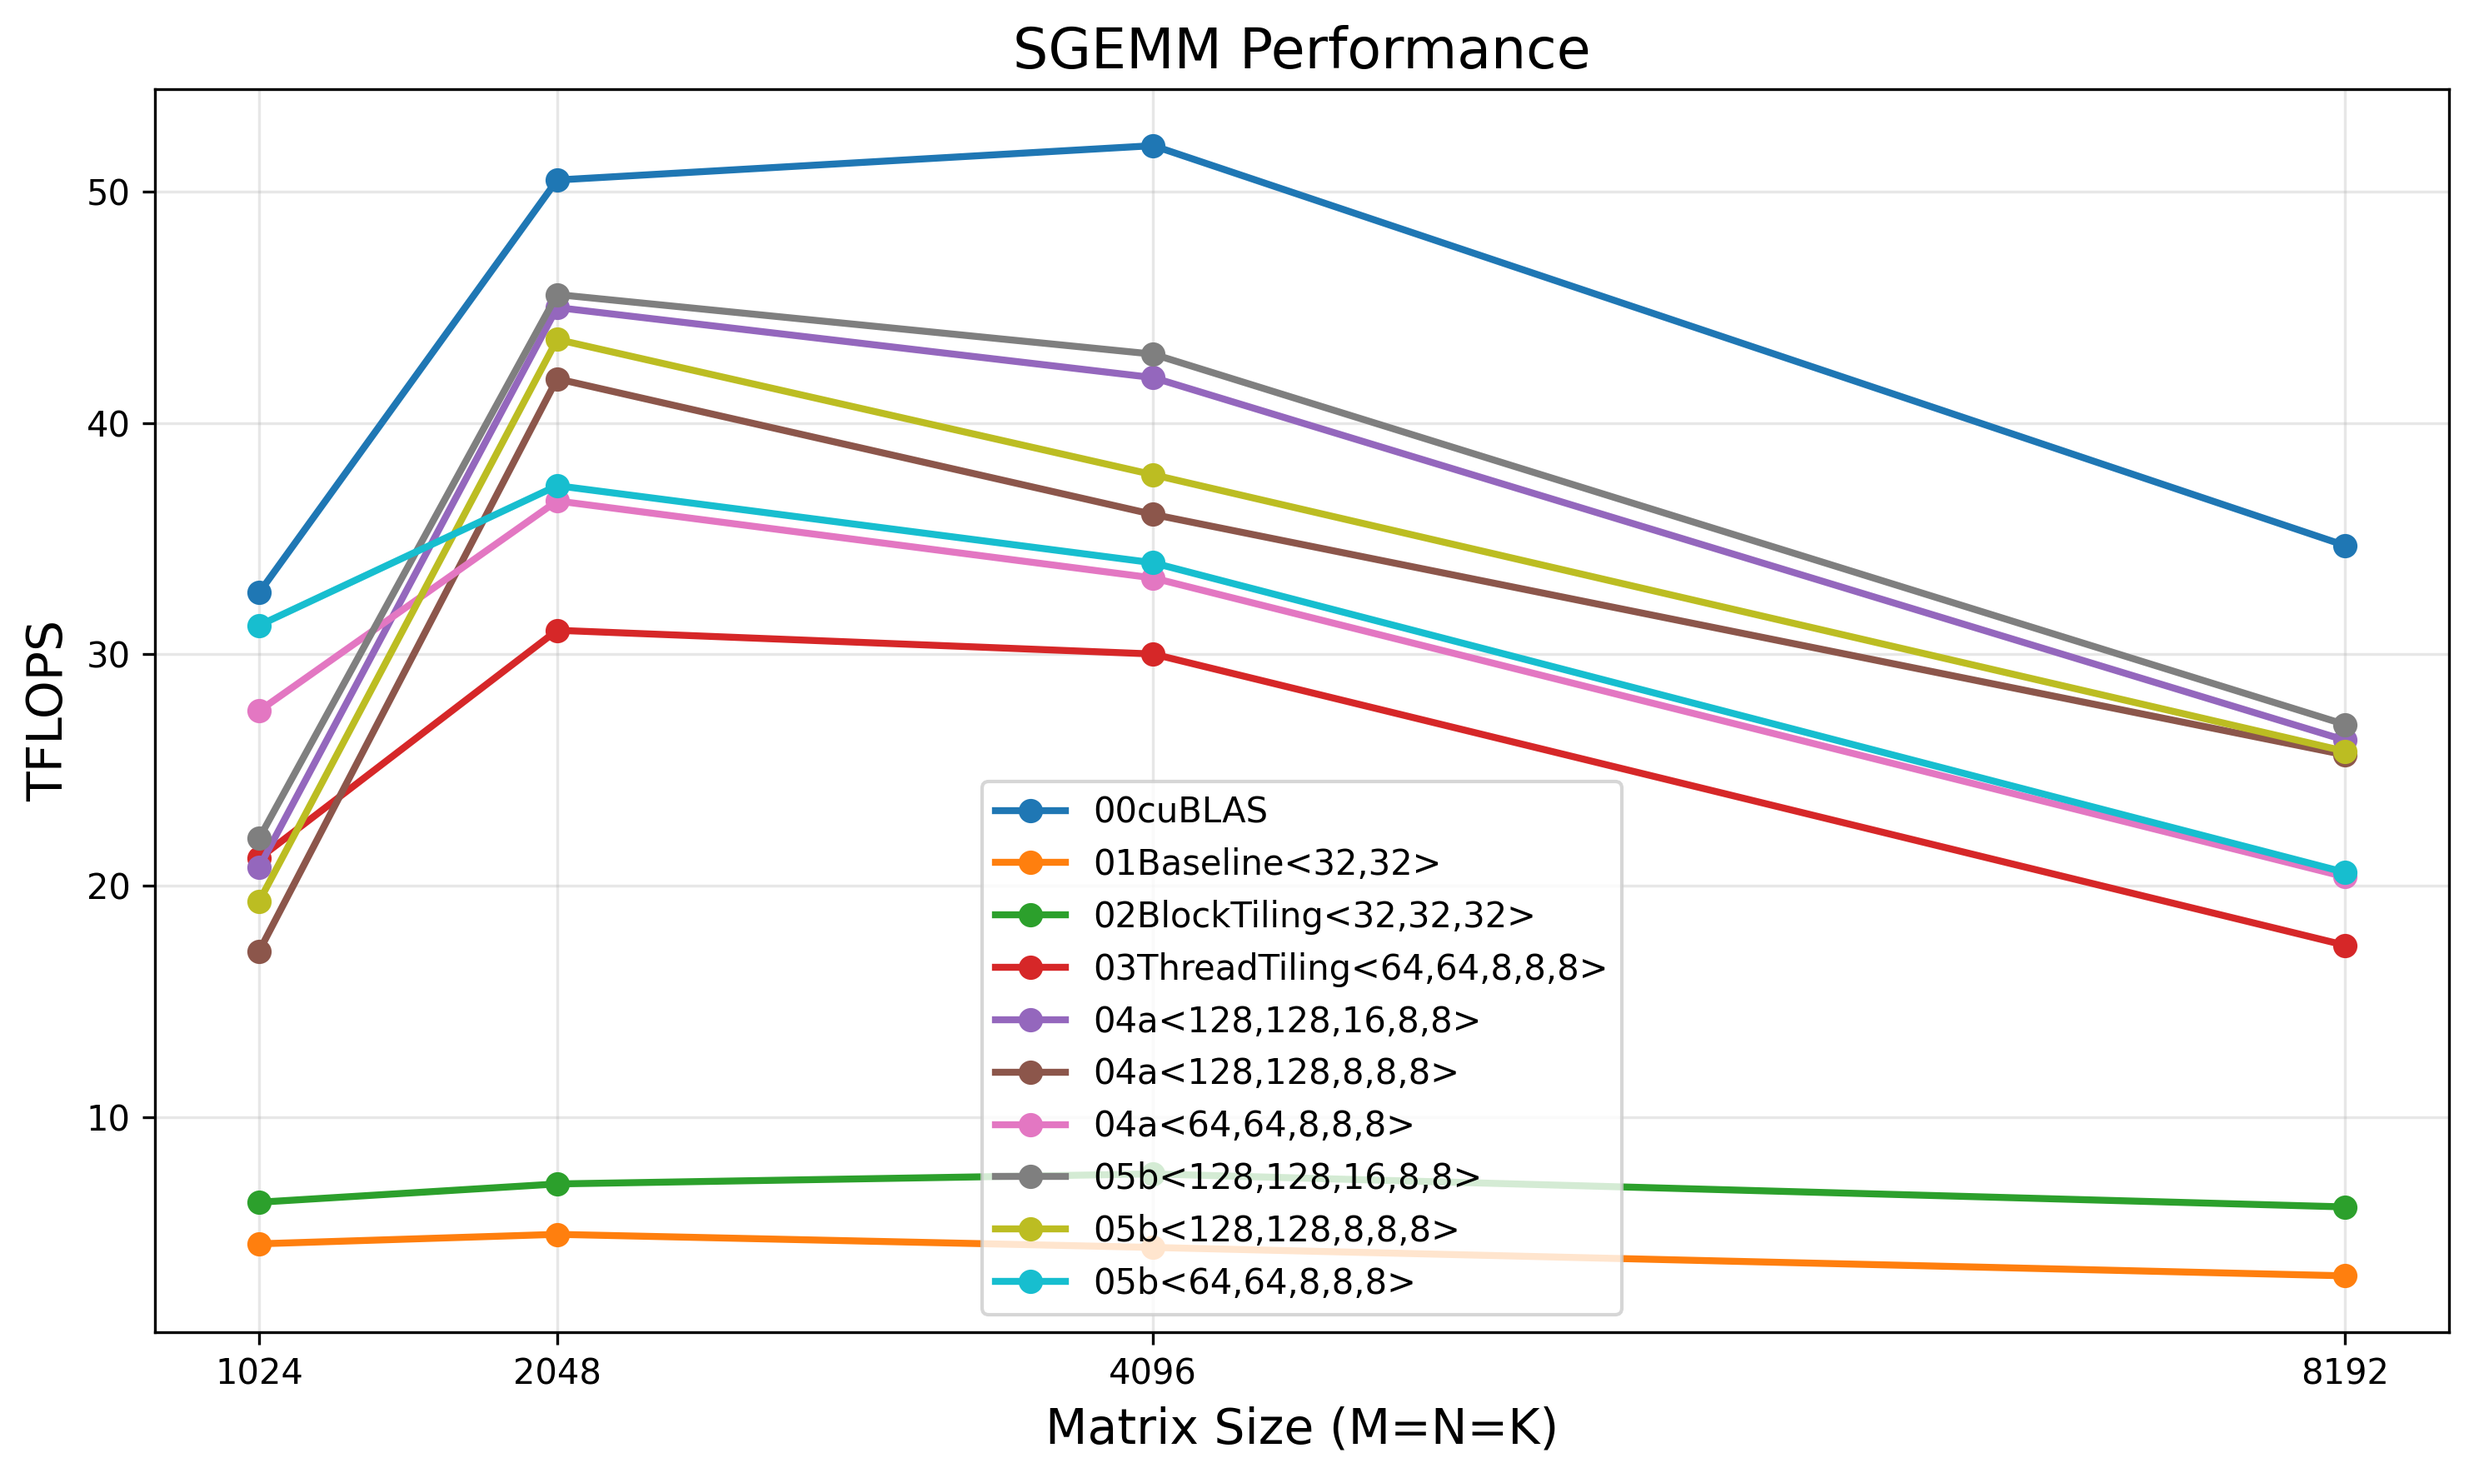
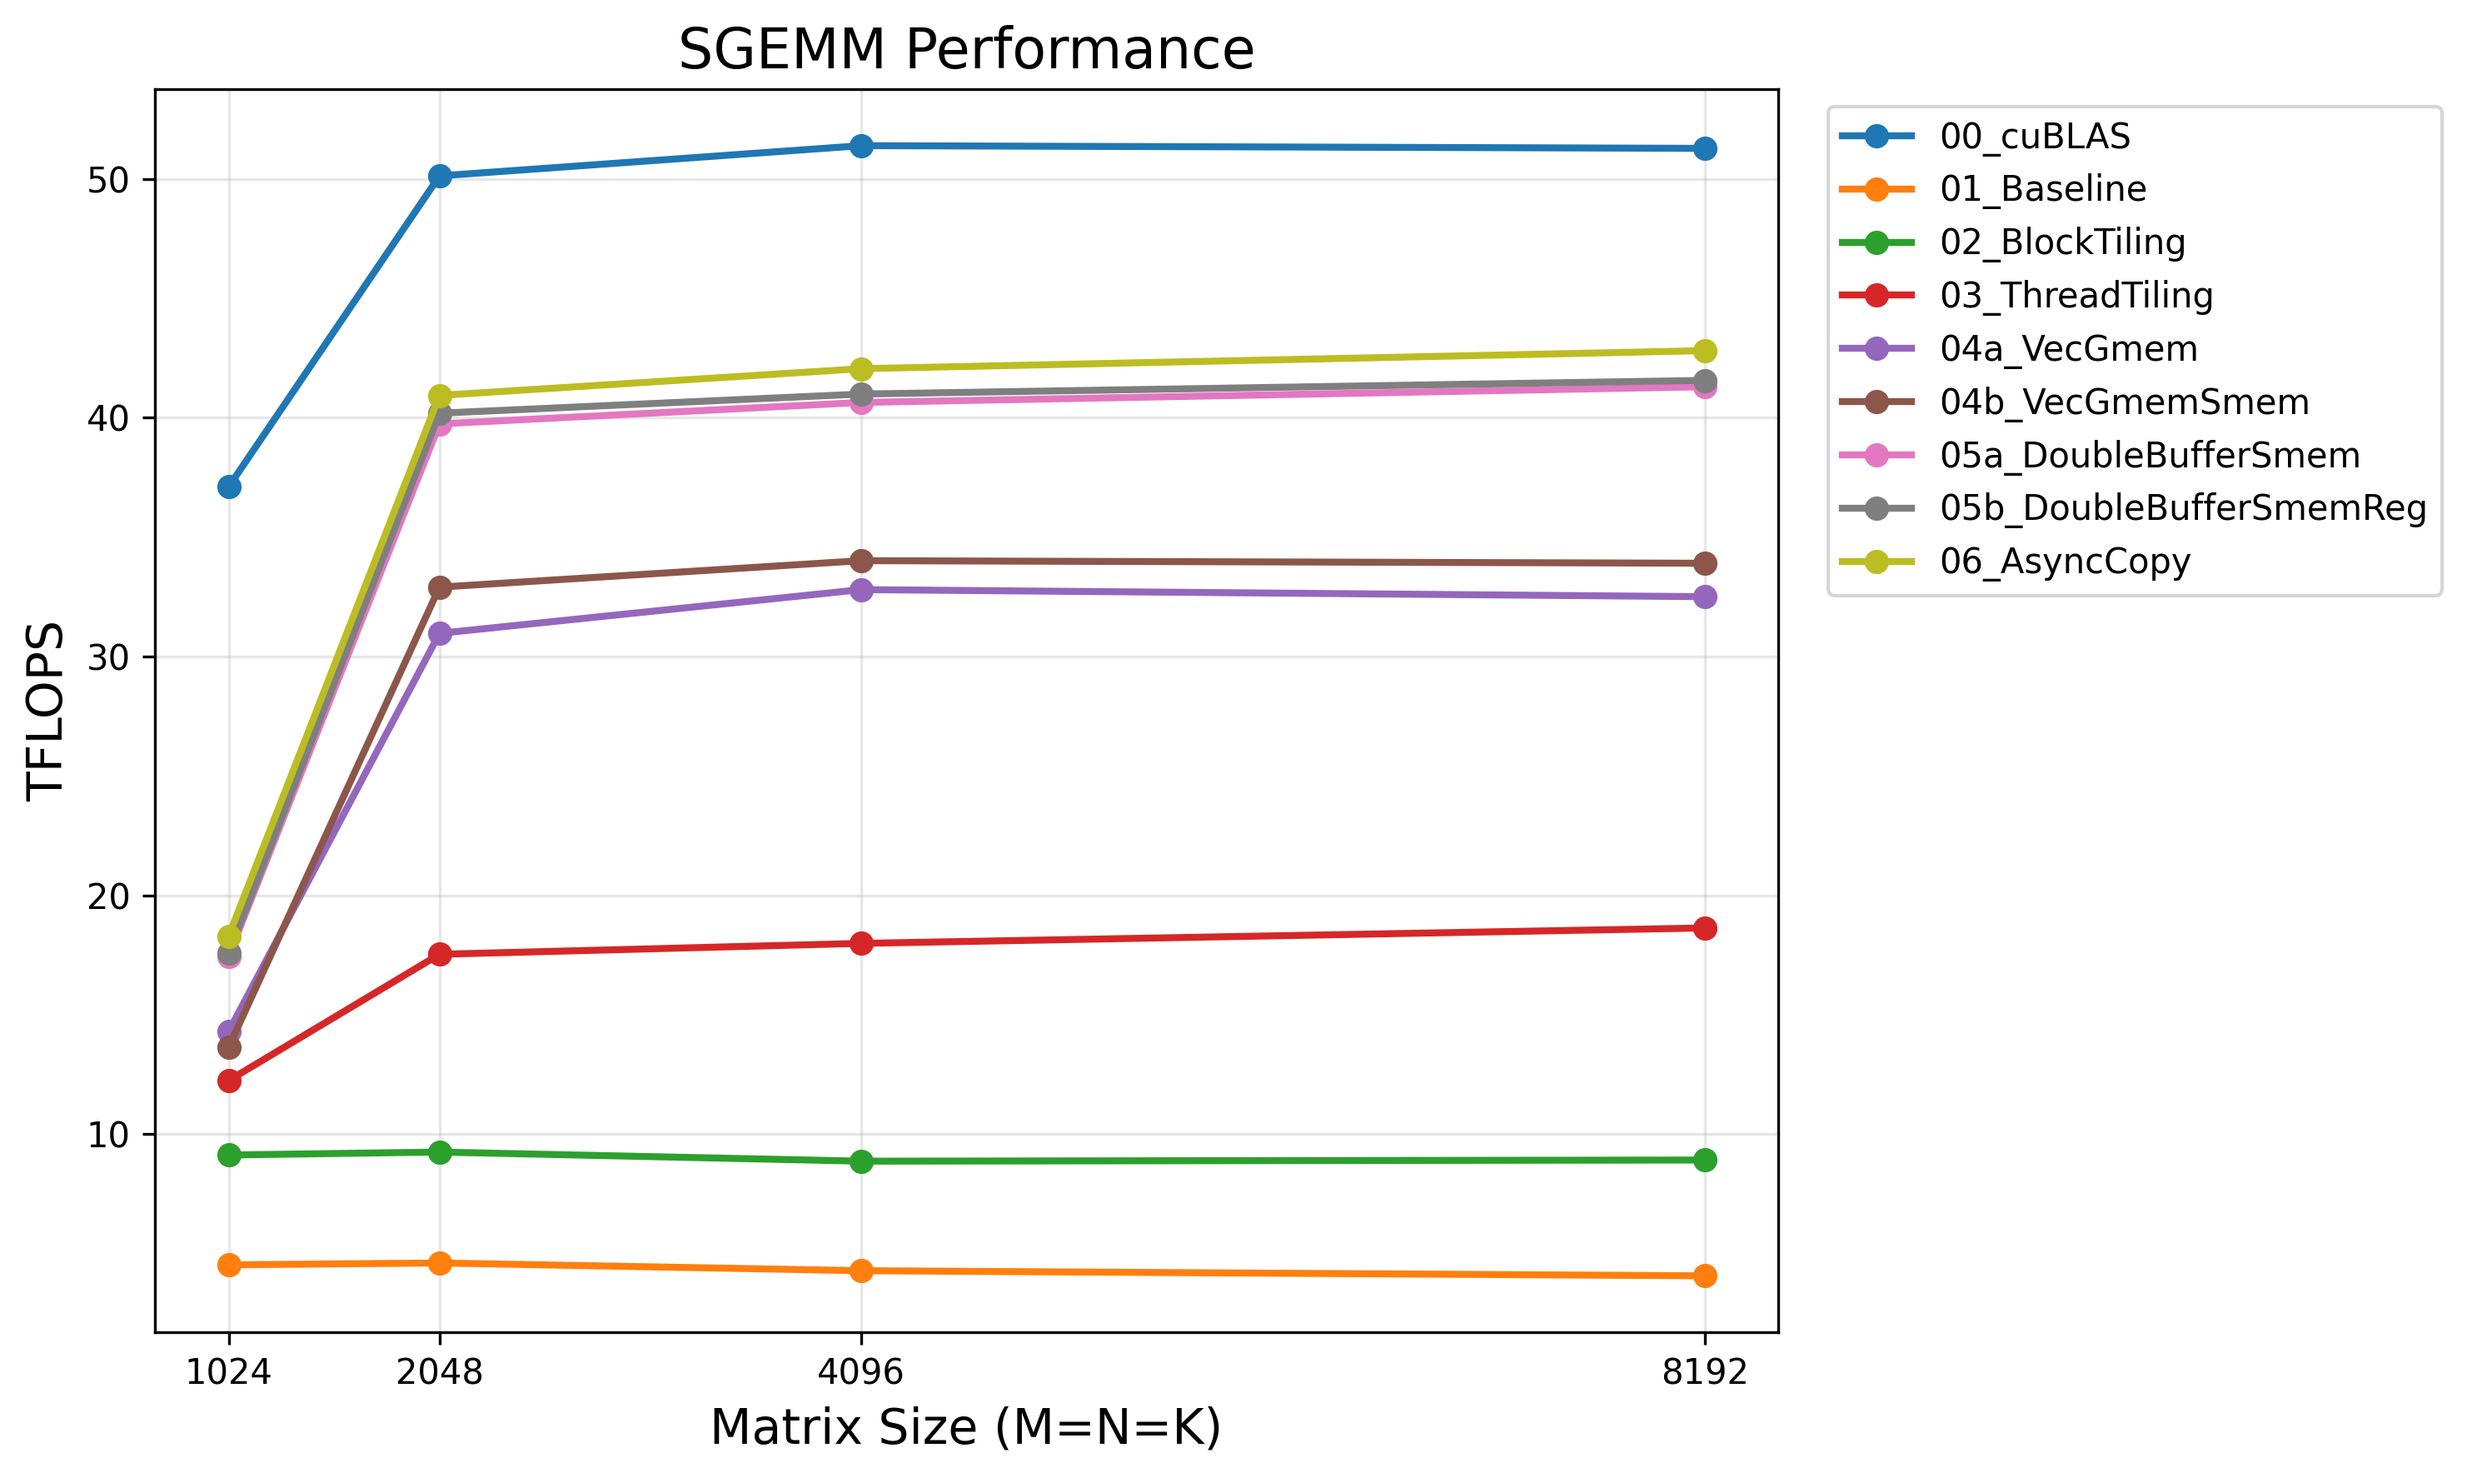
added Makefile, gitignore, updated readme

diff --git a/scripts/plot_results.py b/scripts/plot_results.py
@@ -26,7 +26,8 @@ plt.xticks(sizes, [str(s) for s in sizes])
 plt.xlabel("Matrix Size (M=N=K)", fontsize=14)
 plt.ylabel("TFLOPS", fontsize=14)
 plt.title("SGEMM Performance", fontsize=16)
-plt.legend(fontsize=10)
+# plt.legend(fontsize=10)
+plt.legend(fontsize=10, loc="upper left", bbox_to_anchor=(1.02, 1))
 plt.grid(True, which="major", alpha=0.3)
 plt.tight_layout()
 

diff --git a/README.md b/README.md
@@ -1,2 +1,35 @@
-# gpu-gemm
-A Systematic Study of General Matrix Multiplication (GEMM) Optimization on GPUs
+# CUDA SGEMM Optimization
+
+A step-by-step exploration of GEMM optimization techniques on NVIDIA GPUs.
+
+## Requirements
+
+- CUDA Toolkit (tested with 12.x)
+- GPU with SM 80+ (Ampere or later) for async copy kernels
+- Python 3 + matplotlib (for plotting)
+
+## Build & Run
+
+```bash
+make
+./gemm_bench
+python3 scripts/plot_results.py gemm_results.csv
+```
+
+## Kernel Progression
+
+| Kernel | Description |
+|--------|-------------|
+| 00_cublas | cuBLAS reference (FP32, no tensor cores) |
+| 01_baseline | Naive: one thread per output element |
+| 02_block_tiling | Shared memory tiling for A and B |
+| 03_thread_tiling | Each thread computes TM×TN output tile |
+| 04a_vec_gmem | + Vectorized global memory loads (float4) |
+| 04b_vec_gmem_smem | + Vectorized shared memory loads |
+| 05a_double_buffer_smem | + Shared memory double buffering |
+| 05b_double_buffer_smem_reg | + Register double buffering |
+| 06_async_copy | + Asynchronous GMEM→SMEM copies (cp.async) |
+
+## Results
+
+![GEMM Performance](figures/gemm_plot.png)
